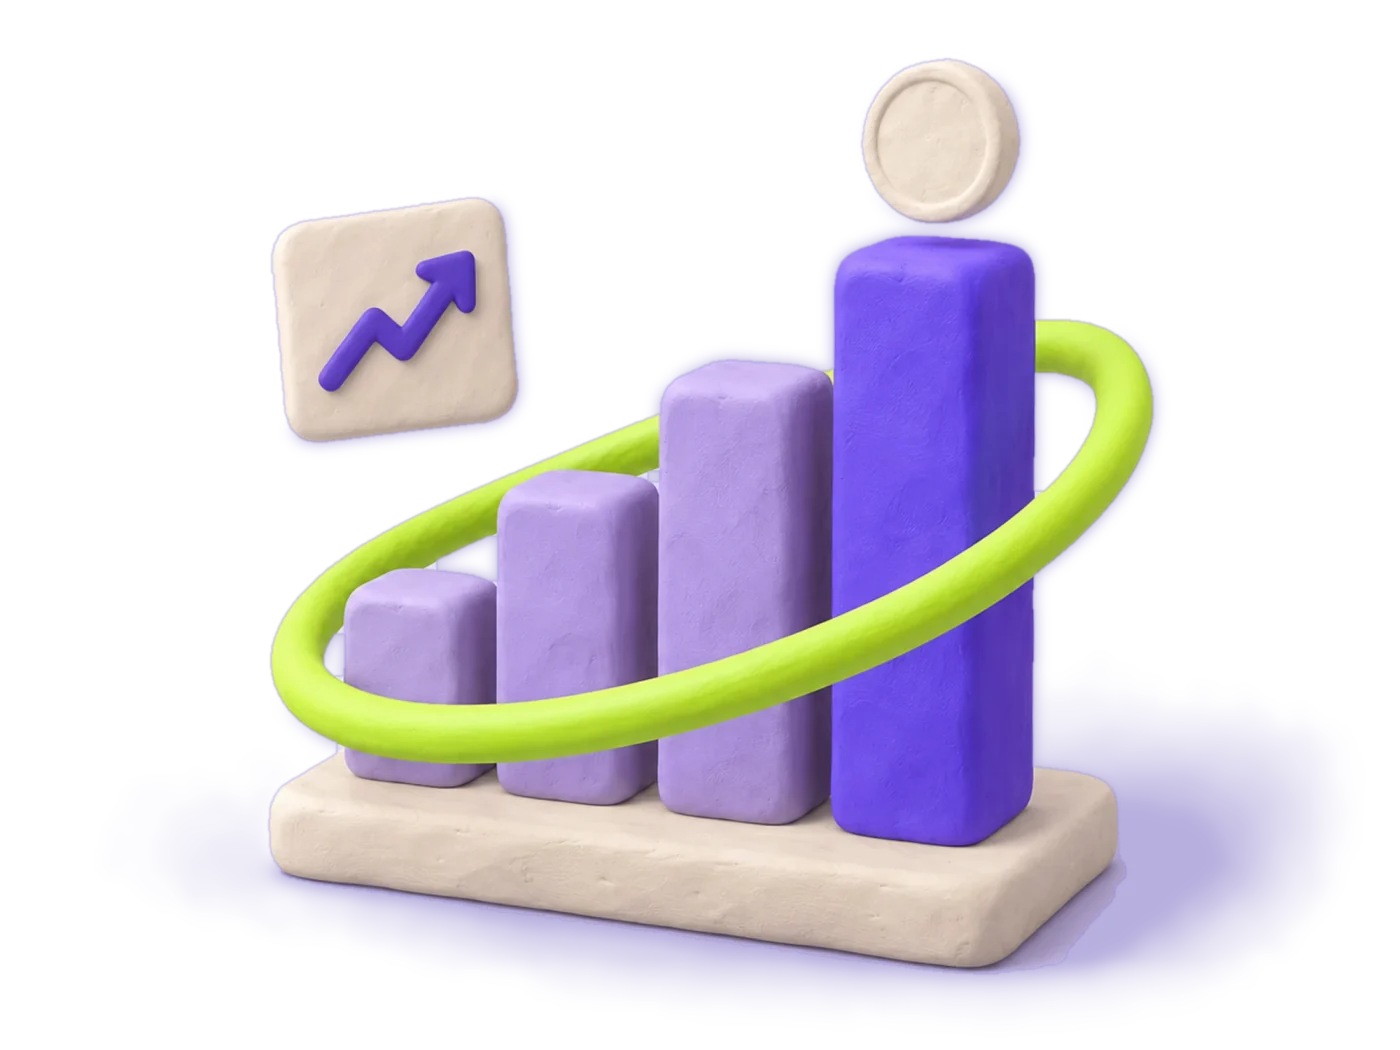
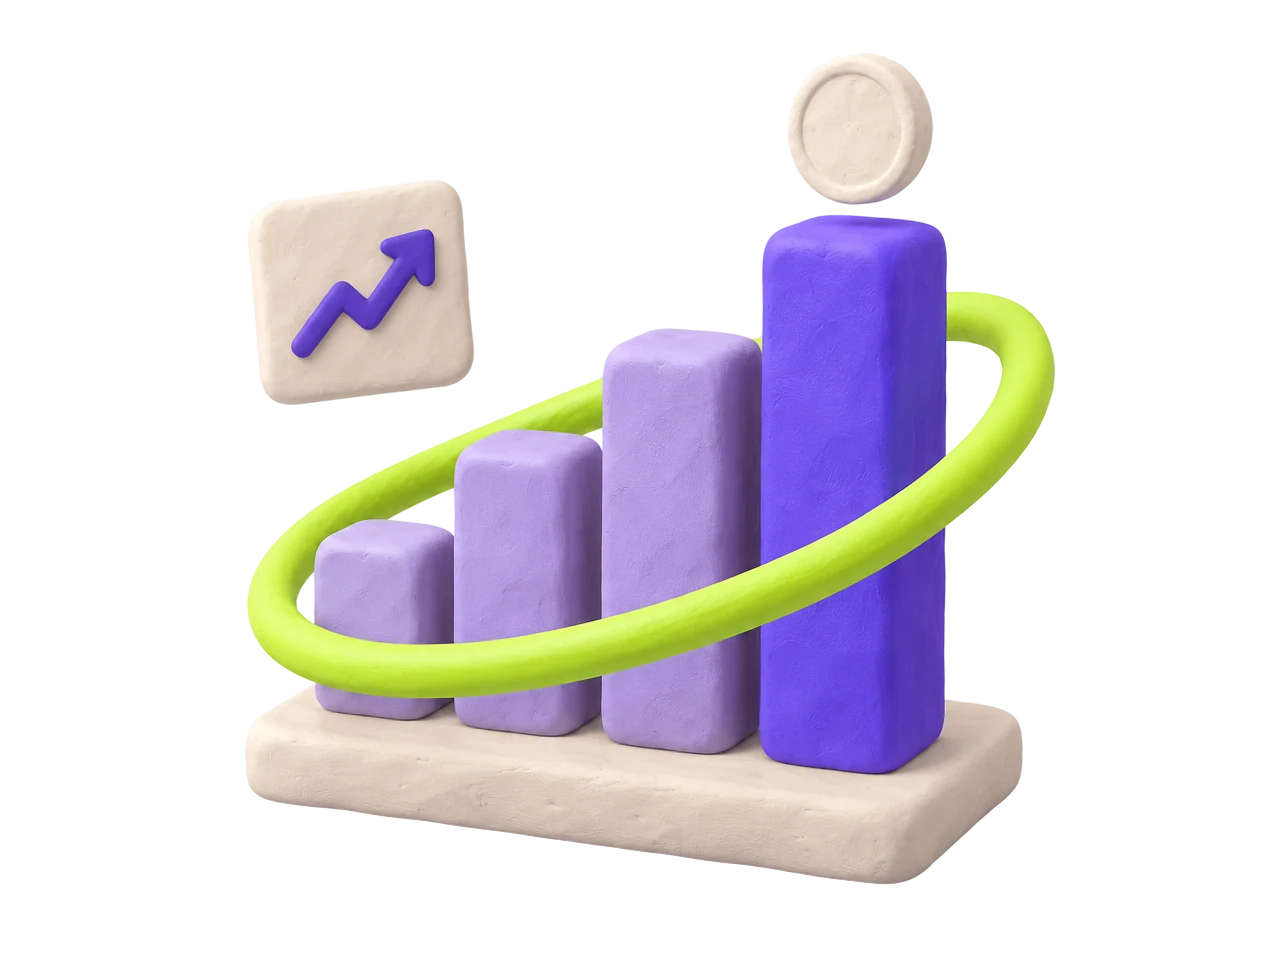
Benefit illustrations: the transparent cut-outs from the Figma Website page
Claude-Session: https://claude.ai/code/session_01TK4tVEFy2kimshfdQLoBs3

diff --git a/src/components/sections/BenefitsSection.tsx b/src/components/sections/BenefitsSection.tsx
@@ -4,13 +4,13 @@ import { benefits } from "@/content";
 
 /**
  * One 3D clay render per card, in the order of `benefits` in content/sections.ts (check-in, payment, who's coming,
- * numbers). Files live in public/illustrations, 1400 x 1050 WebP with a transparent background (a soft contact shadow is kept), so they sit straight on the card.
+ * numbers). Files live in public/illustrations, 1280 x 960 WebP with a transparent background, taken from the "Website" page of the Bizqwik Launch Visuals Figma file, so they sit straight on the card.
  */
 const ART = [
-  { src: "/illustrations/benefit-checkin.webp", width: 1400, height: 1050 },
-  { src: "/illustrations/benefit-payment.webp", width: 1400, height: 1050 },
-  { src: "/illustrations/benefit-roster.webp", width: 1400, height: 1050 },
-  { src: "/illustrations/benefit-numbers.webp", width: 1400, height: 1050 },
+  { src: "/illustrations/benefit-checkin.webp", width: 1280, height: 960 },
+  { src: "/illustrations/benefit-payment.webp", width: 1280, height: 960 },
+  { src: "/illustrations/benefit-roster.webp", width: 1280, height: 960 },
+  { src: "/illustrations/benefit-numbers.webp", width: 1280, height: 960 },
 ];
 
 /** Section 4 of the outline: four outlined cards, each a title, a line and a 3D illustration. */

diff --git a/docs/progress/0064-2026-11-26-benefit-illustrations.md b/docs/progress/0064-2026-11-26-benefit-illustrations.md
@@ -4,3 +4,6 @@ The four 3D clay renders supplied (QR check-in with a dumbbell, a zip wallet wit
 - Converted to WebP at 1400 x 1050, quality 82 (34-42 KB each): `public/illustrations/benefit-{checkin,payment,roster,numbers}.webp`.
 - The renders came on a lavender backdrop, which is now removed: each is a transparent-background WebP (alpha), 76-82 KB. The clay objects are cut out; the soft floor shadow is kept but redrawn as a transparent violet shadow so it sits on the card colour. They sit straight on the card (no tile, no blend trick); Next.js serves them responsively.
 - The four older white-background illustrations (`checkin`, `payment`, `roster`, `control`) are removed; `checkin-clear.webp` (support hub) is untouched.
+
+## Replaced with the Figma cut-outs (2026-11-26)
+My own automatic background removal left soft smudges, so the four illustrations now come from the "Website" page of the "Bizqwik Launch Visuals" Figma file (the four "Generated Image" frames): the transparent-background versions stored in the file, exported at their native 1280 x 960 and saved as WebP with alpha (64-74 KB each). There is no floor shadow in these; the objects sit directly on the card.
